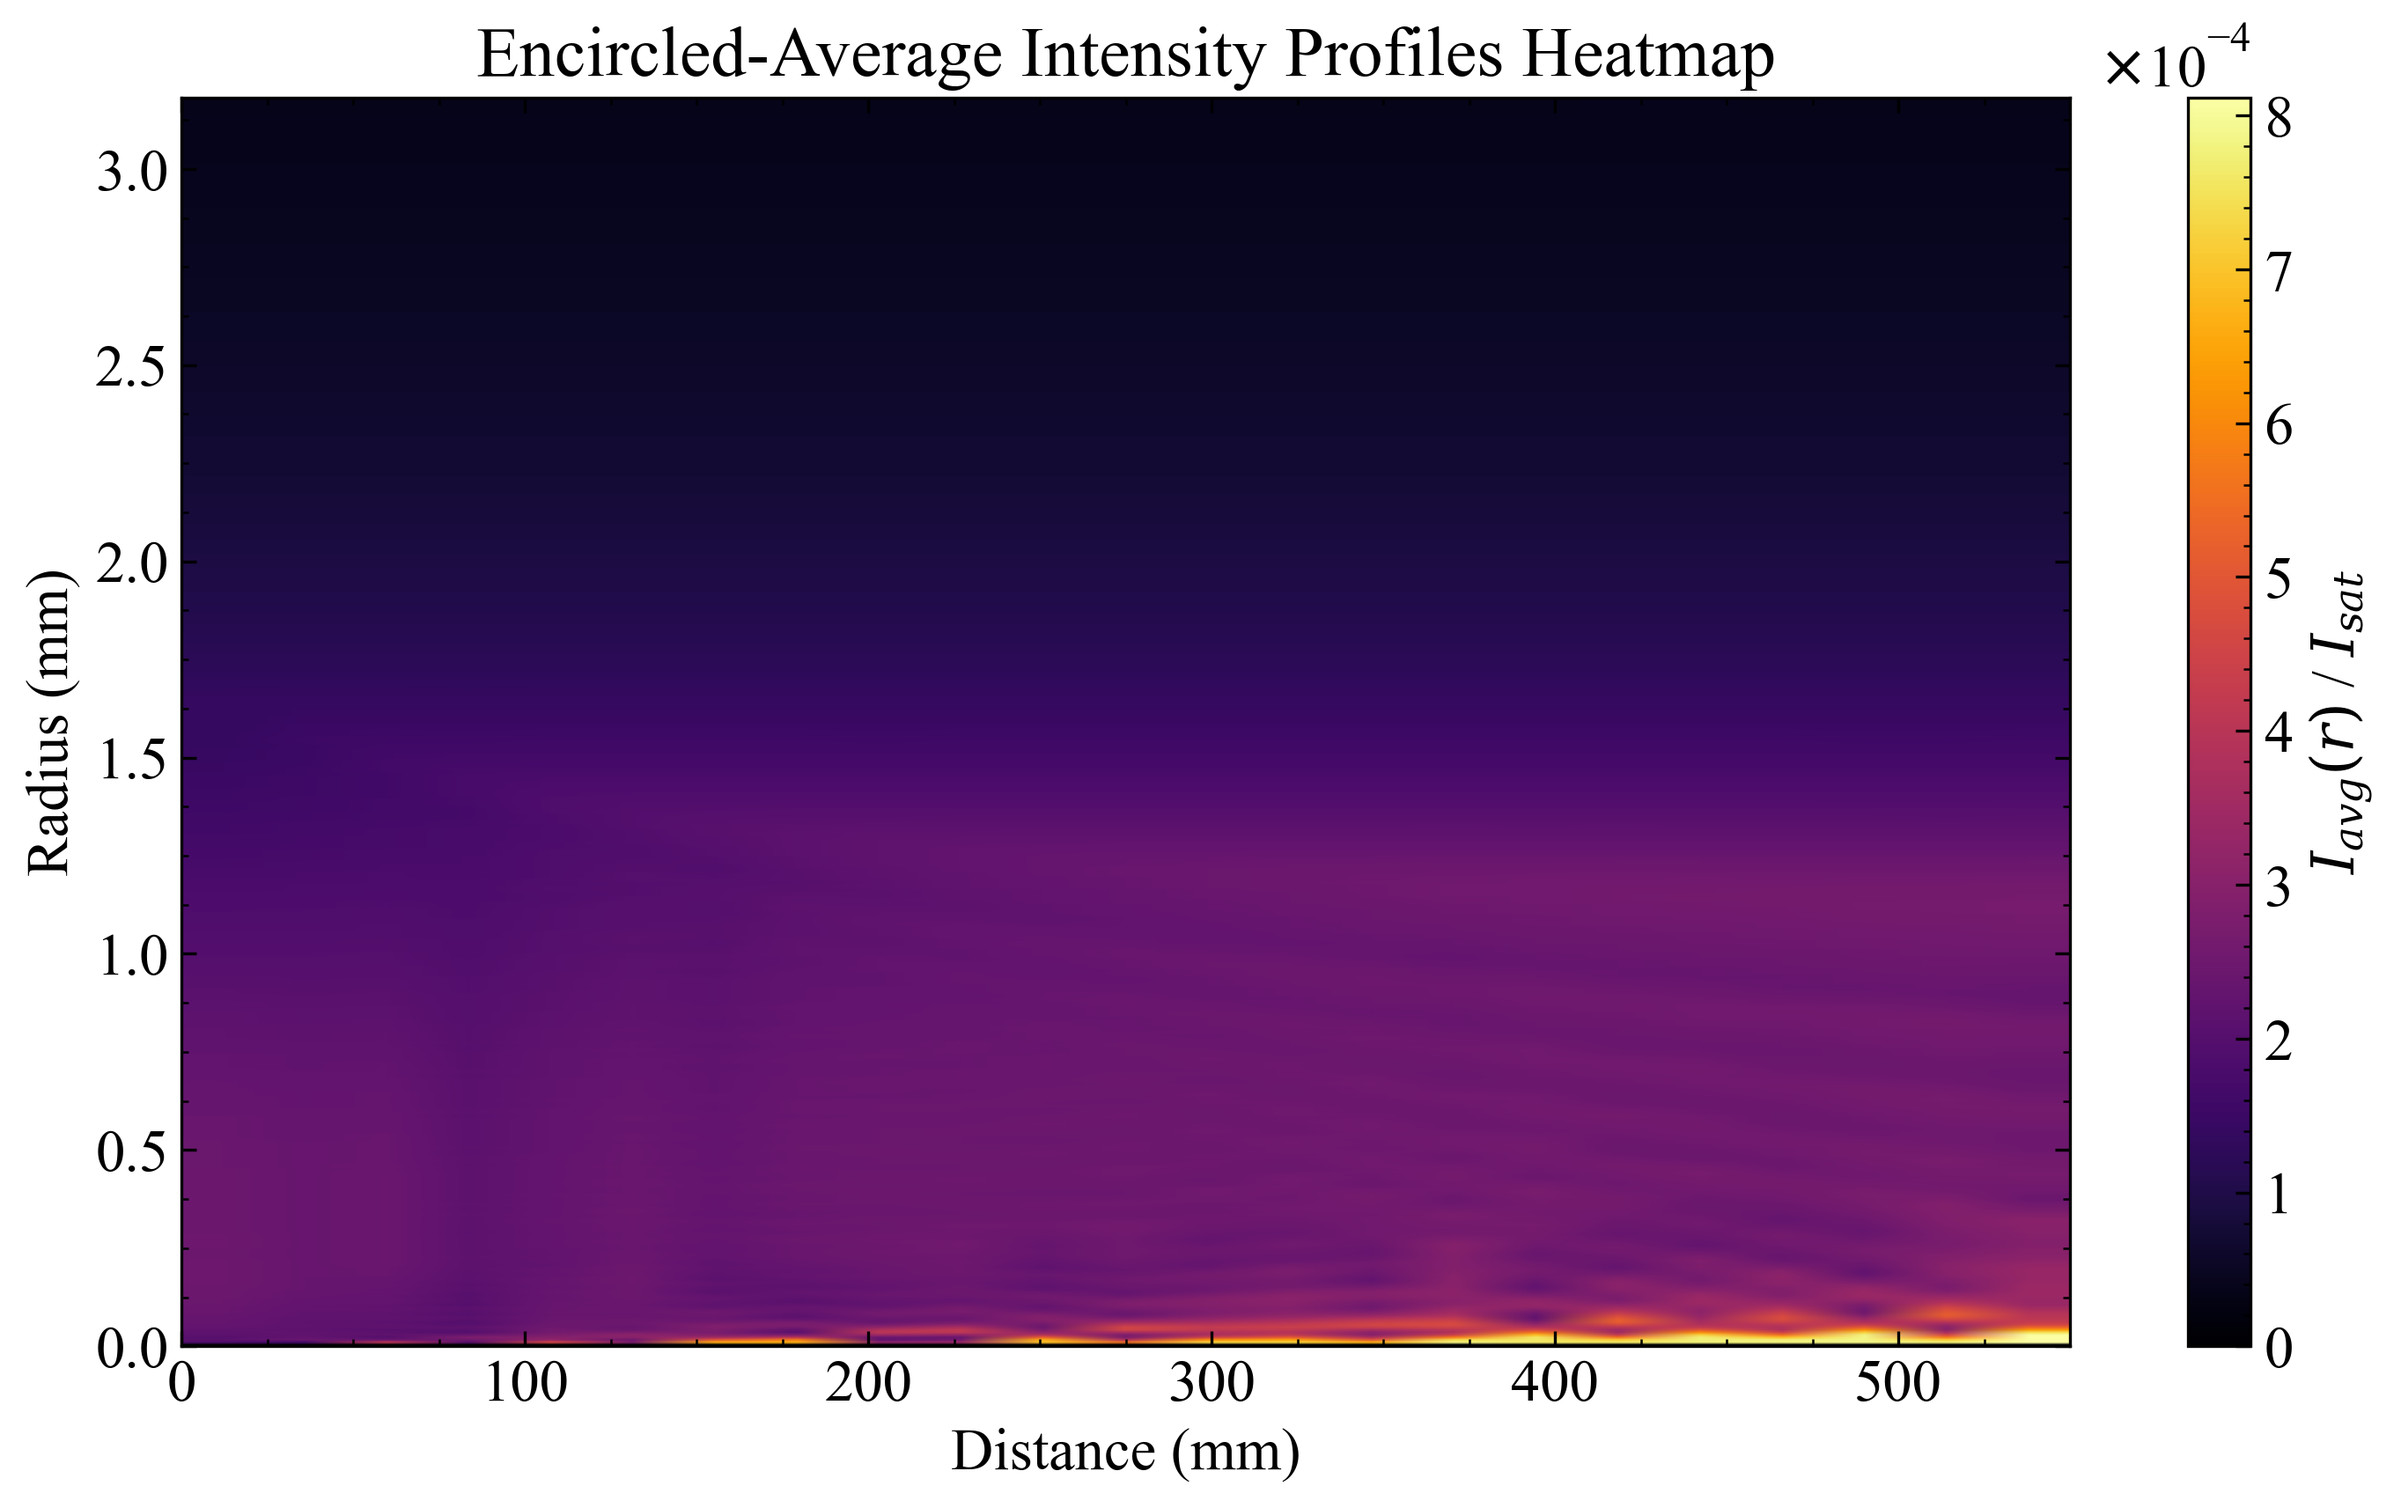
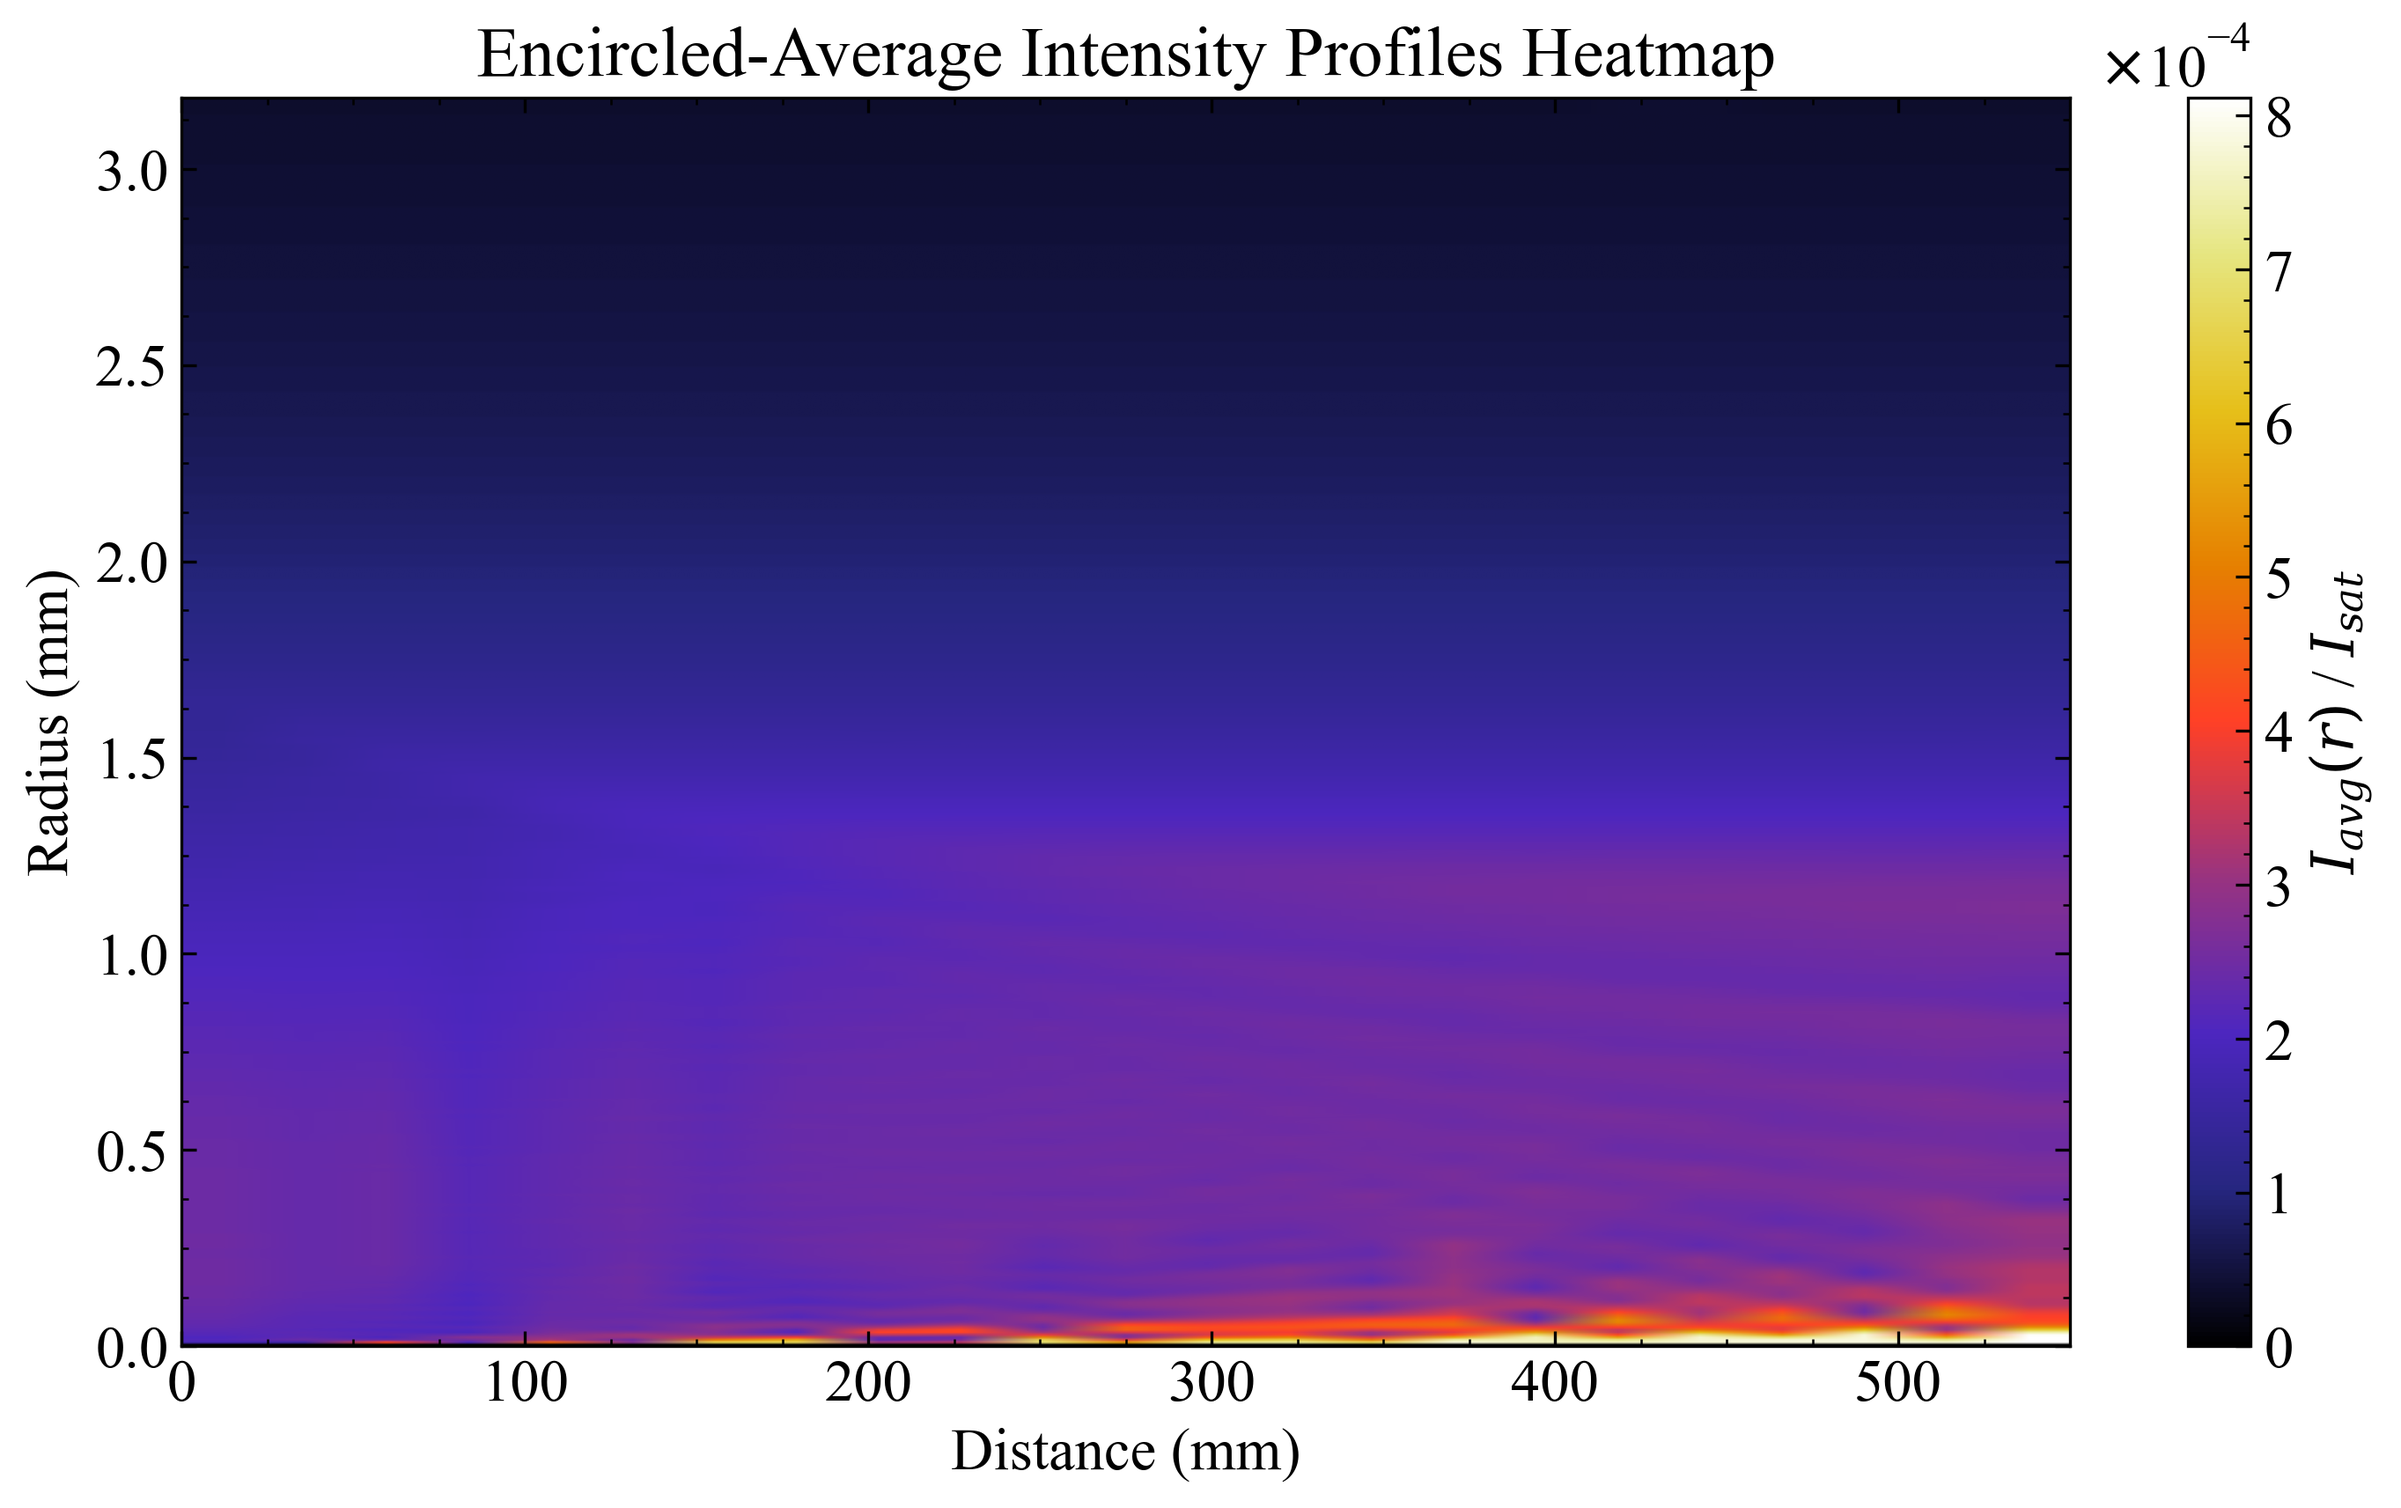
45

diff --git a/imageIntegration.py b/imageIntegration.py
@@ -18,8 +18,6 @@ rcParams['ytick.major.size'] = 4
 rcParams['xtick.minor.size'] = 2
 rcParams['ytick.minor.size'] = 2
 
-
-
 h = 6.62607015e-34  # Planck's constant (J·s)
 c = 2.99792458e8    # speed of light (m/s)
 wavelength = 328.1629601e-9 #wavelength of light
@@ -46,8 +44,8 @@ rcParams['mathtext.fontset'] = 'dejavuserif' # or 'cm', 'stix', 'custom'
 
 focus_distance = None # Only show a certain distance
 plot_main = False
-save_all_plots = True
-#save_all_plots = False
+#save_all_plots = True
+save_all_plots = False
 
 pixel_size = 3.45e-6 #m
 pixel_area = pixel_size**2 #3.45 x 3.45 micrometers squared
@@ -251,7 +249,7 @@ if plot_main:
 		I_ave_peak = data["I_Ave_max"]
 
 		# --- Column 1: Original image ---
-		axs[i, 0].imshow(img, cmap="inferno", origin="lower")
+		axs[i, 0].imshow(img, cmap="CMRmap", origin="lower")
 		axs[i, 0].plot(cx, cy, "bo", markersize=3, alpha=0.6)
 		axs[i, 0].set_ylabel("y (pixels)")
 		if i == 0:
@@ -263,7 +261,7 @@ if plot_main:
 			axs[i, 0].set_xlabel("x (pixels)")
 
 		# --- Column 2: Polar-transformed image ---
-		axs[i, 1].imshow(polar_img, extent=polar_extent, aspect="auto", cmap="inferno", origin="lower")
+		axs[i, 1].imshow(polar_img, extent=polar_extent, aspect="auto", cmap="CMRmap", origin="lower")
 		axs[i, 1].set_ylabel(polar_ylabel)
 		if i == 0:
 			axs[i, 1].set_title("Polar coordinates")
@@ -350,7 +348,7 @@ if focus_distance is None:
 		extent=extent,
 		aspect='auto',
 		origin='lower',
-		cmap='inferno',
+		cmap='CMRmap',
 		interpolation='bilinear'
 	)
 	cbar = plt.colorbar(label=r"$I(r)$ / $I_{sat}$")
@@ -397,7 +395,7 @@ if focus_distance is None:
 		extent=extent,
 		aspect='auto',
 		origin='lower',
-		cmap='inferno',
+		cmap='CMRmap',
 		interpolation='bilinear'
 	)
 	cbar = plt.colorbar(label=r"$I_{avg}(r)$ / $I_{sat}$")
